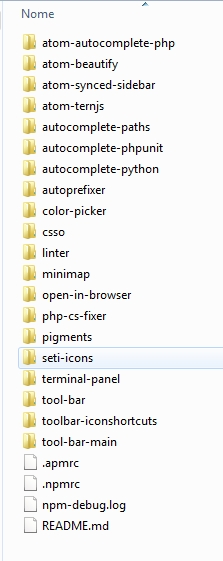
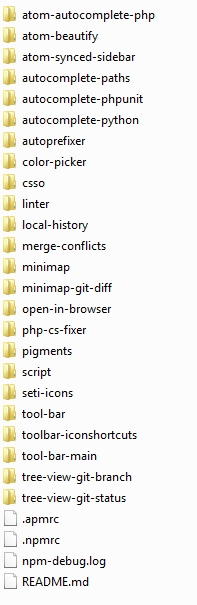
atualizando imagem com pacotes instalados na nexxera e arrumando os estilos do editor

Changed region(s): [[0.0, 0.0, 0.7919, 0.9697]]

diff --git a/styles.less b/styles.less
@@ -44,7 +44,7 @@ span.name.icon.icon-file-directory::before{color:#b3b3b3}
   .tree-view { font-size: 12px; }
   .status-bar { font-size: 12px; }
 }
-.tab-bar .title {text-indent: -30%;}
+.tab-bar .title {text-indent: -20%;}
 /* this rule doesn´t work. I use only to copy and paste in minimap style.less on minimap package because there upgrade erase that css rule
   .minimap-visible-area{
     border:1px solid #F2F200;
